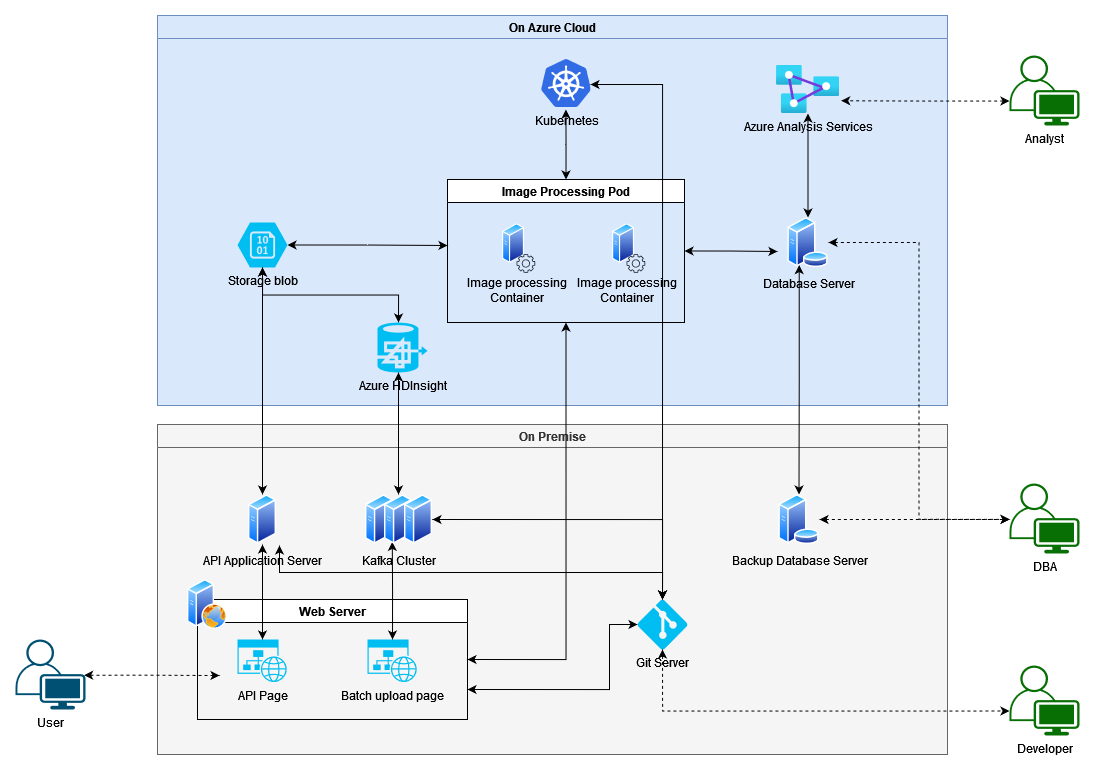
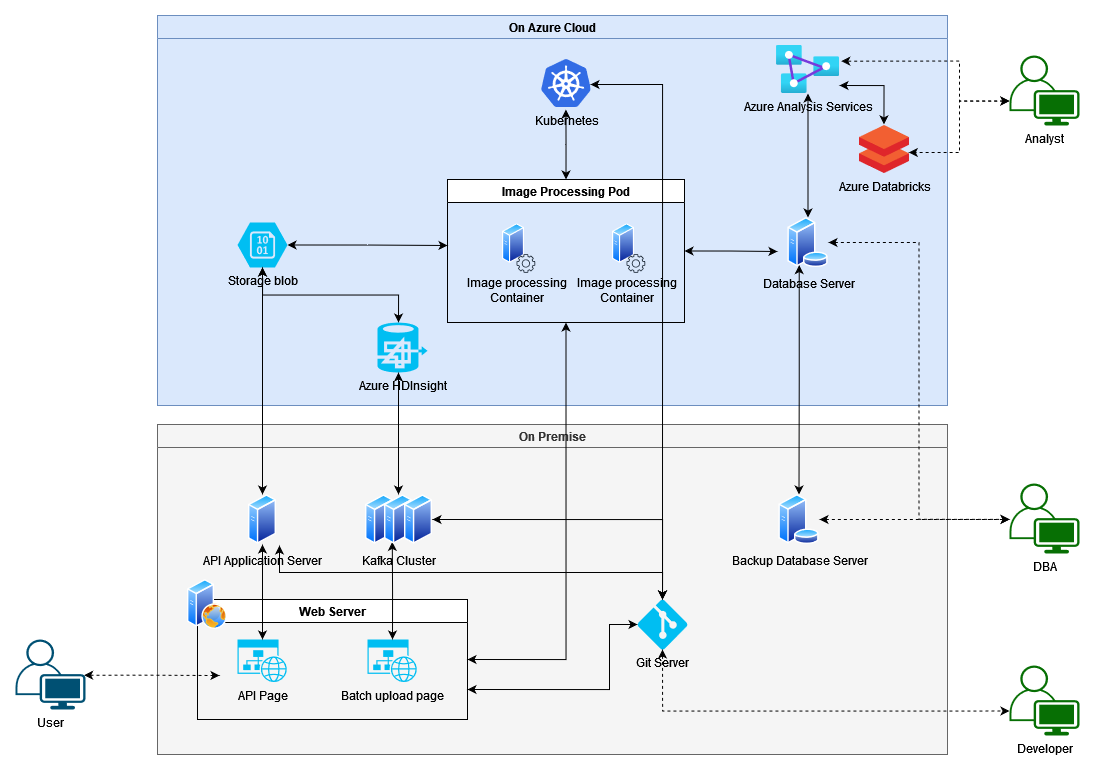
Complete documentation of system architecture design

Changed region(s): [[0.6831, 0.0622, 0.8384, 0.2487]]

diff --git a/Section 3 - System Design/Design 2/README.md b/Section 3 - System Design/Design 2/README.md
@@ -1,0 +1,171 @@
+## Section3: System Design
+### Design 2
+
+This section will cover the designing of a system architecture for a company whose main business is in processing image.
+
+draw.io is used in this section to draw the diagram 
+
+ 
+### Summary of task:
+
+1. Design a system architecture diagram with the following requirements:
+   - Web application for users to upload images via API
+   - Web application for users to batch upload images via Kafka stream
+     - Kafka stream will be managed by in-house engineers
+   - Cloud processing of images
+   - Business intelligence resource on the cloud for analyst to perform analysis on data
+   - High availability with disaster recovery
+2. To provide documentation on the architecture.
+
+---
+
+### Proposed design
+
+![alt text](https://github.com/ovixivo/Data-Engineer-Tech-Challenge/blob/section3-dev/Section%203%20-%20System%20Design/Design%202/Cloud%20data%20infrastructure%20system%20architecture%20diagram.png "System Architecture")
+
+The architecture is design with hybrid cloud architecture.
+There are 2 environments in the setup, firstly on premise, secondly Azure Cloud.
+
+This design allow the company to host lightweight applications and servers locally, while pushing resource heavy tasks to the cloud.
+
+#### On premise environment
+
+The following servers will be hosted locally:
+1. Web Server
+2. API Application Server
+3. Kafka Cluster
+4. Git Server
+5. Backup Database Server
+
+By hosting these lightweight server locally, company can save additional cost by reducing the reliance of cloud server.
+Furthermore, company will have more control and overview of data coming in and out of the servers.
+For example, hosting a local Git repository reduce the risk of source code leak and by using CI/CD pipeline complied source code can be pushed down to predefined servers for faster deployment.
+
+By having users connecting through on premise web server, it is able to prevent direct access to the primary database in the cloud.
+
+##### Web Server
+
+Web server will be used to host 2 web applications.
+Firstly, an API web application that allows users to upload images via API.
+Secondly, a batch upload web application that allows users to upload large set of images through Kafka stream.
+The web server act as the first layer of defence by ensuring only valid user have access to the web page. 
+Furthermore, with the use of SSL enabled data send over the web will be secured.
+
+##### API Application Server
+
+The API Application Server will process users' API requests. By setting up locally, latency to process the API is reduced.
+In the case of high load, engineers can set up more API applications running on the server and balance the load using load balancer application such as HAProxy.
+
+##### Kafka Cluster
+
+The Kafka Cluster will process batch image upload requests. 
+With the cluster managed locally, in the case when network to the cloud is down, batch files will still retain in the server for future processing.
+Furthermore, Kafka can be easily scales up by adding more brokers to handle requests without adding more servers.
+
+##### Git Server
+
+The Git Server, such as GitLab, will allow developer to version control their development codes, and with CI/CD pipelines time to deployment of new features can be reduced.
+With local Git Server source code leak is also reduced as the company will have more control over who and what is being accessed.
+
+##### Backup Database Server
+
+The Backup Database Server is a cold storage solution to backup data from the cloud.
+This allows disaster recovery, in the case where data in the cloud is lost.
+Furthermore, the server can act as an archival server to reduce the storage required in the cloud.
+
+#### On Azure Cloud environment
+
+The following services will be provision on the cloud:
+1. Azure HDInsight
+2. Storage blob
+3. Kubernetes
+4. Image Processing Pod
+5. Database Server
+6. Azure Analysis Services
+7. Azure Databricks
+
+The services and applications running on the cloud is of computation heavy.
+By off loading these services to the cloud, company does not have to invest in high-end servers on the premise.
+Furthermore, services such as Azure Analysis Services/ Azure Databricks can be start or pause on demand to reduce cost.
+With Azure Security, Microsoft also provide a secure environment to process and store data from the users.
+
+##### Azure HDInsight
+
+Azure HDInsight is integrated with Kafka, this will allow the local Kafka cluster to easily connect to the cloud via HDInsight and send the file to a cloud blob storage.
+Azure HDInsight also provide easy scaling of Kafka broker through their UI.
+
+##### Storage blob
+
+Azure Storage blob is a temporary cloud storage for storing of images and their metadata.
+Data will come from API application and Kafka stream from Azure HDInsight.
+The storage will be accessed by image processing application for the processing.
+By using Azure Storage lifecycle management policies, engineer can set up rules to remove images and its metadata after 7 days to for compliance and privacy.
+
+##### Kubernetes
+
+With Kubernetes service, engineers can automate deployment, scaling, and management of containerized applications in a centralized location.
+The main usage will be used to create and scale Image Processing Pod for the processing of data.
+Container image can be pushed to Kubernetes from Git repository hence reducing time to deployment.
+
+##### Image Processing Pod
+
+As image processing is of high computation, it is proposed to use containerized application to enable easy scaling of application.
+By setting up Kubernetes Pod, multiple Image Processing containers can be created to server the users need.
+Pod can also be automatically scaled based on demand with Kubernetes Horizontal Pod Autoscaler.
+
+##### Database Server
+
+The database server will be used to collect data generated from the image processing.
+By using Azure Database Service, data are stored encrypted at rest and in motion.
+Data is protected by Azure to ensure only authorized personnel is able to access its content.
+
+##### Azure Analysis Services
+
+Azure Analysis Services provides BI semantic modeling that can be scaled on demand.
+This allows users to build data models that can be used for data visualization in Azure Databricks.
+
+##### Azure Databricks
+
+Azure Databricks a collaborative analytics platform that allows analysts to analyze and build machine learning models on the data.
+The collaborative environment allow different analysts to work on the same project together with version control and sharing features.
+Computational power can also be scaled on demand for better management of cost.
+
+### Design Workflow
+
+##### Workflow 1 - API upload
+1. A user access a web page that allow uploading of a single image for processing.
+2. The image is uploaded using API call to the server
+3. The API server push the data onto Azure blob storage
+4. Image processing application pick up the new image file for processing
+5. The processing result is saved into Azure Database
+6. Image processing application return result to user
+
+##### Workflow 2 - Batch upload
+1. A user access a web page that allow uploading of a batch of images for processing
+2. The image is uploaded and process by a Kafka steam
+3. Kafka steam connects to Azure HDInsight to upload the file onto Azure blob storage
+4. Image processing application pick up image batch for processing
+5. Due to high load, Kubernetes auto-scale image processing pod for faster processing
+6. The processing result is saved into Azure Database
+7. Image processing application return batch result to user
+8. Kubernetes auto-scale image processing pod down as resource is no longer required
+
+##### Workflow 3 - New deployment
+1. An engineer has complete a new feature for image processing application
+2. An engineer commit the new feature into Git and submitted a merge request
+3. A senior engineer review and approve the request
+4. Code goes through CI/CD pipeline for testing
+5. Upon successful testing, container image is push to Kubernetes for deployment
+6. Kubernetes updates pod with the latest container image
+
+##### Workflow 4 - Data analysis
+1. An analyst access Azure Analysis Services to build data model of database
+2. Using Azure Databricks, the analyst connect to Azure Analysis Services and pull the data model information of the database
+3. Using the data model information, analyst create report and dashboard for data analysis
+4. To further analyze the data, analyst connect to Azure Databricks to run python scripts that computes in the cloud for faster processing.
+5. With the analysis information, analyst can build machine learning models for business use case
+
+---
+
+
+
